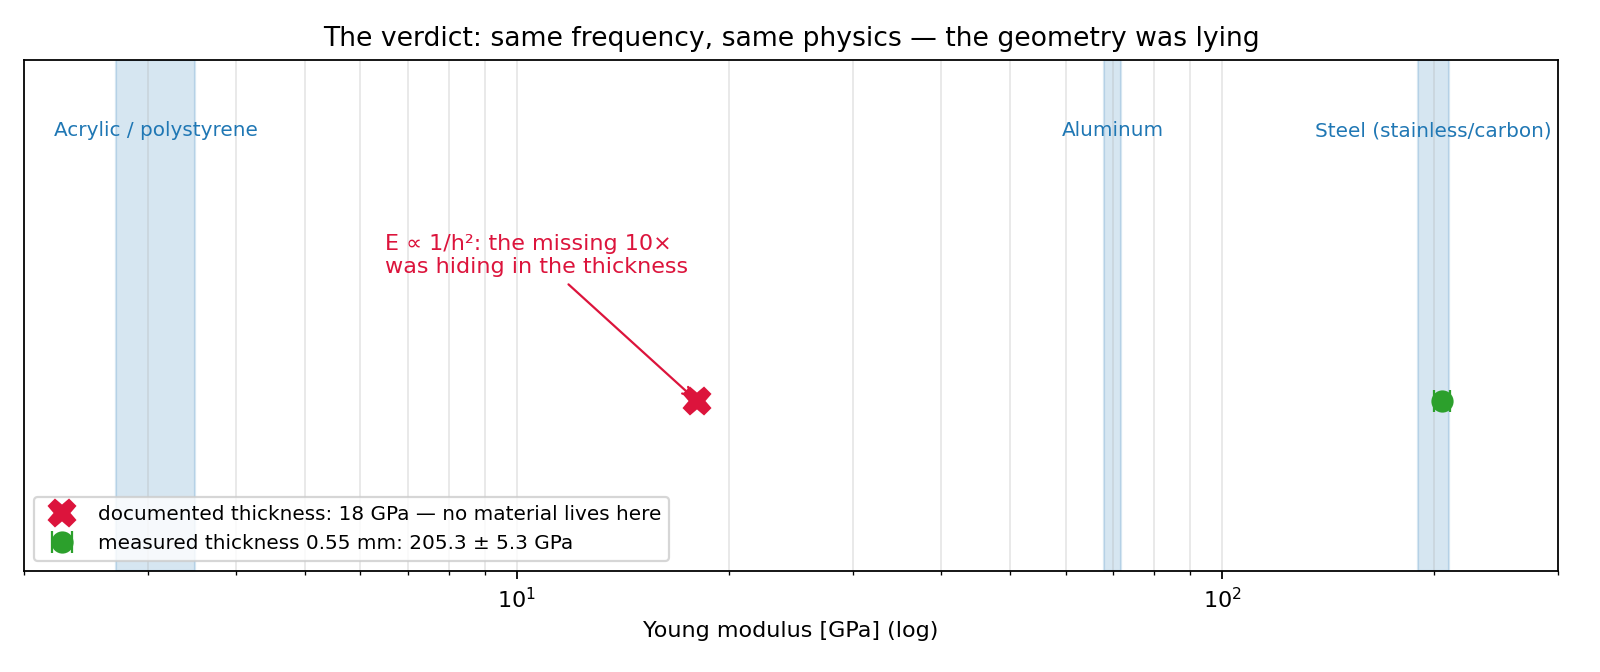
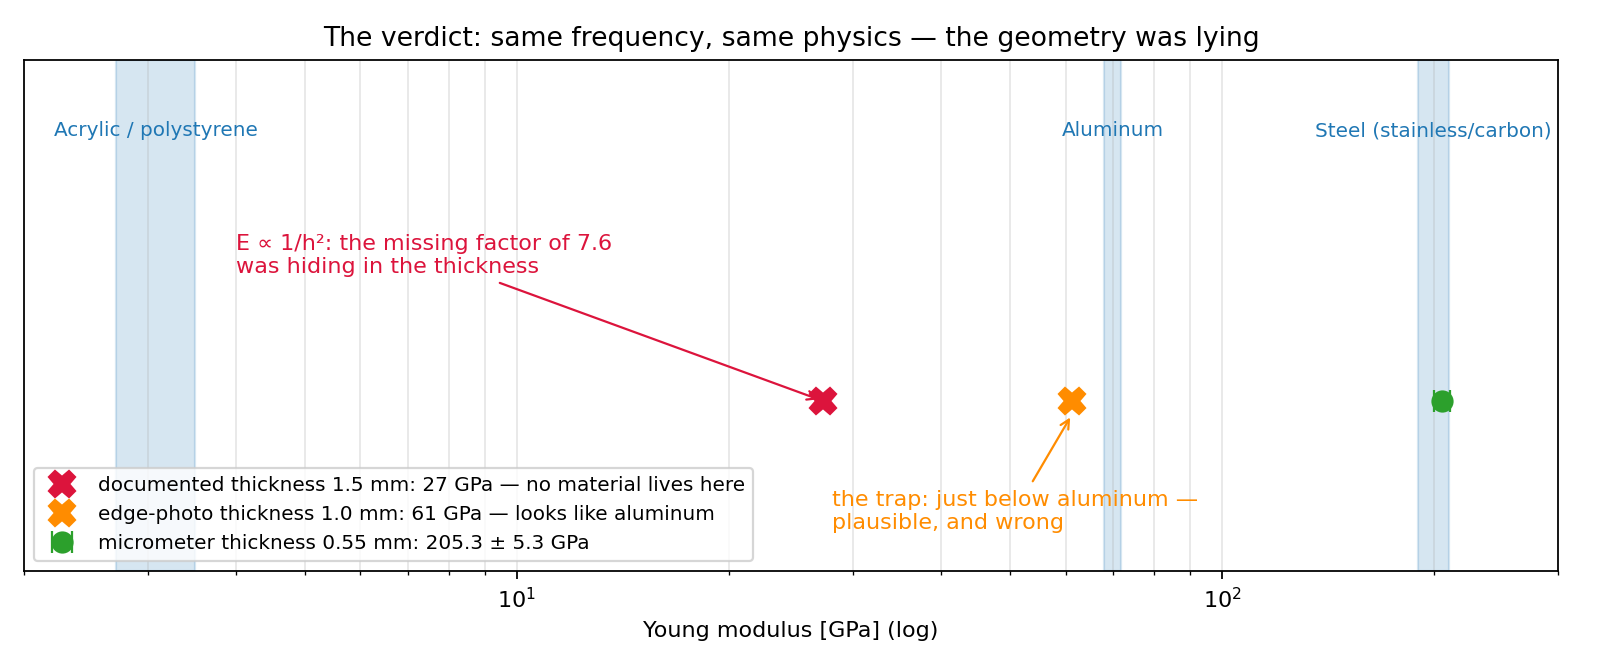
Harmonize the narrative on the reproducible 7.6x / 27 GPa ladder
The README and story figure quoted "10x too small" and "E = 18 GPa", but that
number is not reproducible with the current pipeline: it baked in an effective
length L = 0.270 m (and b = 20 mm, no tip mass). With the corrected geometry the
inverse Euler-Bernoulli model gives the ladder the paper already uses:
h = 1.5 mm -> 27 GPa, h = 1.0 mm -> 61 GPa (the dangerous, aluminum-adjacent
trap), h = 0.55 mm -> 205.3 GPa.

- README: "10x" -> "7.6x", Act 3 rewritten to show the 27/61 GPa progression,
  Act 5 retitled "The missing factor of 7.6".
- make_story_figures.py: figure 03 now recomputes the modulus ladder with
  materials.young_modulus_from_frequency instead of hardcoded 18/205.3, and
  03_verdict.png is regenerated (three points, with the 61 GPa trap annotated).
- MATERIAL_DATASETS / ORIGINAL_CODE_AUDIT / FIGURE_PROVENANCE: record the final
  micrometer geometry (0.300 m / 0.025 m / 0.55 mm -> 205.3 GPa) and keep the
  historical 17.6 GPa only as provenance of the original exploratory analysis.

Salvaged from uncommitted work in a stale worktree; applies cleanly on top of
the digital-twin merge (disjoint sections). ruff-clean, full suite 51 passed.

diff --git a/scripts/make_story_figures.py b/scripts/make_story_figures.py
@@ -5,8 +5,10 @@ Each figure is one act of the steel-ruler detective story:
 01 - the measurement: the inox free decay and its 4.982 Hz spectral line
 02 - the alibi check: measured forced-mode ratios vs the ideal cantilever
      ladder (the boundary-condition fingerprint that exonerated the clamp)
-03 - the verdict: the Young-modulus estimate before and after the micrometer,
-     against the material ranges
+03 - the verdict: the Young-modulus ladder as the assumed thickness improves
+     (documented 1.5 mm -> edge photo 1.0 mm -> micrometer 0.55 mm), against
+     the material ranges; every value is recomputed here with the pipeline's
+     own inverse model
 
 The forced-mode frequencies in figure 02 are the measured values documented in
 docs/ORIGINAL_CODE_AUDIT.md (the raw forced-vibration dataset is not part of
@@ -28,6 +30,7 @@ ROOT = Path(__file__).resolve().parents[1]
 sys.path.insert(0, str(ROOT / "src"))
 
 from vibration_id.beam_modes import CANTILEVER_BETA_L
+from vibration_id.materials import BeamGeometry, young_modulus_from_frequency
 from vibration_id.pipeline import load_clean_signal
 from vibration_id.spectral import compute_fft, dominant_frequency
 
@@ -36,10 +39,27 @@ STORY = ROOT / "figures" / "story"
 # Measured forced-resonance frequencies (docs/ORIGINAL_CODE_AUDIT.md)
 FORCED_MODES_HZ = [5.01, 31.2, 86.8, 173.5]
 
-# Young-modulus story numbers (README results + uncertainty budget:
-# E ~ rho L^4 f^2 / h^2; thickness and length dominate at ~2.6% total)
-E_WRONG_GPA = 18.0  # with the thickness documented at the time (1.5 mm)
-E_RIGHT_GPA = 205.3  # with the micrometer thickness (0.55 mm)
+# Young-modulus ladder, recomputed with the pipeline's inverse model so the
+# figure always matches what the code reproduces. Fixed inputs: f1 = 4.982 Hz,
+# L = 0.300 m, b = 25 mm, rho = 7850 kg/m^3, 0.21 g paper tip target. Only the
+# assumed thickness changes across the story.
+F1_HZ = 4.982
+DENSITY_KG_M3 = 7850.0
+TIP_MASS_KG = 2.1e-4
+
+
+def _young_modulus_gpa(thickness_mm: float) -> float:
+    geometry = BeamGeometry(length_m=0.300, thickness_m=thickness_mm * 1e-3, width_m=0.025)
+    modulus = young_modulus_from_frequency(
+        geometry, frequency_hz=F1_HZ, density_kg_m3=DENSITY_KG_M3, tip_mass_kg=TIP_MASS_KG
+    )
+    return modulus / 1e9
+
+
+E_WRONG_GPA = _young_modulus_gpa(1.5)  # documented thickness -> ~27 GPa
+E_TRAP_GPA = _young_modulus_gpa(1.0)  # edge-photo thickness -> ~61 GPa, "looks like aluminum"
+E_RIGHT_GPA = _young_modulus_gpa(0.55)  # micrometer thickness -> ~205 GPa
+# Uncertainty budget on the final value (~2.6%, thickness/length dominated)
 E_UNCERTAINTY_GPA = 5.3
 MATERIAL_BANDS = [
     ("Acrylic / polystyrene", 2.7, 3.5),
@@ -141,7 +161,7 @@ def fig_03_verdict() -> None:
         color="tab:green",
         markersize=9,
         capsize=5,
-        label=f"measured thickness 0.55 mm: {E_RIGHT_GPA:.1f} ± {E_UNCERTAINTY_GPA:.1f} GPa",
+        label=f"micrometer thickness 0.55 mm: {E_RIGHT_GPA:.1f} ± {E_UNCERTAINTY_GPA:.1f} GPa",
     )
     ax.plot(
         [E_WRONG_GPA],
@@ -149,15 +169,31 @@ def fig_03_verdict() -> None:
         "X",
         color="crimson",
         markersize=12,
-        label=f"documented thickness: {E_WRONG_GPA:.0f} GPa — no material lives here",
+        label=f"documented thickness 1.5 mm: {E_WRONG_GPA:.0f} GPa — no material lives here",
+    )
+    ax.plot(
+        [E_TRAP_GPA],
+        [1.0],
+        "X",
+        color="darkorange",
+        markersize=12,
+        label=f"edge-photo thickness 1.0 mm: {E_TRAP_GPA:.0f} GPa — looks like aluminum",
     )
     ax.annotate(
-        "E ∝ 1/h²: the missing 10×\nwas hiding in the thickness",
+        "E ∝ 1/h²: the missing factor of 7.6\nwas hiding in the thickness",
         xy=(E_WRONG_GPA, 1.0),
-        xytext=(6.5, 1.30),
+        xytext=(4.0, 1.30),
         arrowprops={"arrowstyle": "->", "color": "crimson"},
         fontsize=10,
         color="crimson",
+    )
+    ax.annotate(
+        "the trap: just below aluminum —\nplausible, and wrong",
+        xy=(E_TRAP_GPA, 0.97),
+        xytext=(28.0, 0.70),
+        arrowprops={"arrowstyle": "->", "color": "darkorange"},
+        fontsize=10,
+        color="darkorange",
     )
     ax.set_xscale("log")
     ax.set_xlim(2, 300)

diff --git a/README.md b/README.md
@@ -5,7 +5,7 @@
 ![Python](https://img.shields.io/badge/python-3.10%2B-blue.svg)
 
 **A steel ruler, a $2 optical sensor, an Arduino — and a Young modulus that
-came out 10× too small. This is the story of finding the missing factor.**
+came out 7.6× too small. This is the story of finding the missing factor.**
 
 ![Signal to physics](figures/story/cover_signal_to_physics.gif)
 
@@ -39,11 +39,13 @@ number: **4.982 Hz, stable to ±0.001 Hz across runs**.
 ## Act 3 — The verdict that couldn't be right
 
 Feed that frequency into the Euler–Bernoulli cantilever model with the
-ruler's documented geometry and out comes **E ≈ 18 GPa** — an order of
-magnitude below steel, stranded in a region of the chart where *no engineering
-material lives*. The frequency was beyond suspicion. So either the model's
-boundary condition was wrong (a soft clamp reads as a softer material), or the
-geometry was.
+ruler's documented thickness (1.5 mm) and out comes **E ≈ 27 GPa** — a factor
+of 7.6 below steel, stranded in a region of the chart where *no engineering
+material lives*. A photo of the ruler's edge suggested 1.0 mm instead, which
+moves the estimate to **E ≈ 61 GPa** — the more dangerous number, because it
+sits just below aluminum (68–72 GPa) and *looks* plausible. The frequency was
+beyond suspicion. So either the model's boundary condition was wrong (a soft
+clamp reads as a softer material), or the geometry was.
 
 ## Act 4 — Interrogating the boundary
 
@@ -59,11 +61,12 @@ the ideal line.
 The measured ratios sit on the ideal ladder to within ~1%. **The clamp walks
 free** — which leaves the geometry as the only suspect.
 
-## Act 5 — The missing 10×
+## Act 5 — The missing factor of 7.6
 
-A micrometer settled it: the blade measures **0.55 mm**, not the nominal
-1 mm-class thickness that had been assumed. Since `E ∝ 1/h²`, that alone is
-the missing order of magnitude. With the true thickness:
+A micrometer settled it: the blade measures **0.55 mm**, not the 1.5 mm on
+record or the 1.0 mm the photo suggested. Since `E ∝ 1/h²`, correcting the
+thickness multiplies the estimate by 7.6 — the whole missing factor. With the
+true thickness:
 
 ![The verdict](figures/story/03_verdict.png)
 

diff --git a/docs/MATERIAL_DATASETS.md b/docs/MATERIAL_DATASETS.md
@@ -55,22 +55,28 @@ paper_width_m = 0.025
 paper_thickness_m = 0.0003
 ```
 
-For the public material-study metadata, the inox rows use the effective model
-values recalled from the experiment:
+The public material-study metadata now records the final, micrometer-verified
+geometry for the inox rows:
 
 ```text
-length_m = 0.270
-width_m = 0.020
-thickness_m = 0.00150
+length_m = 0.300
+width_m = 0.025
+thickness_m = 0.00055   # micrometer reading; the "1 mm" marking is nominal
 density_kg_m3 = 7850
 ```
 
-With the current public inox samples, FFT extraction gives approximately
-`4.976 Hz`. Using the effective dimensions above, the inverse Euler-Bernoulli
-calculation estimates an effective Young modulus near `17.6 GPa`. This value is
-far below the nominal modulus of stainless steel, so the result should be
-discussed as an effective stiffness estimate unless the tip attachment, clamp
-compliance, free length and active vibration mode are modeled explicitly.
+With this geometry and the ensemble frequency (`4.982 Hz`), the inverse
+Euler-Bernoulli calculation gives `E = 205.3 GPa`, inside the stainless/carbon
+steel range.
+
+**Historical note (provenance of the old 17.6 GPa figure):** the original
+exploratory analysis used effective values recalled from the experiment —
+`length_m = 0.270`, `width_m = 0.020`, `thickness_m = 0.00150`, `f ≈ 4.976 Hz`,
+no tip-mass correction — which yield `E ≈ 17.6 GPa`. That number is **not**
+reproducible with the current pipeline defaults: with the corrected length
+(`0.300 m`) the same wrong thickness gives `≈ 27 GPa`, and the edge-photo
+thickness (`1.0 mm`) gives `≈ 61 GPa`. See `docs/ORIGINAL_CODE_AUDIT.md` for
+the full course correction (forced-mode clamp check + micrometer).
 
 The public metadata table is:
 

diff --git a/docs/FIGURE_PROVENANCE.md b/docs/FIGURE_PROVENANCE.md
@@ -64,7 +64,7 @@ files remain the historical reference.
 | --- | --- |
 | `01_measurement.png`, `cover_signal_to_physics.gif` | generated from `data/sample/sample_inox_raw_calibrated.csv` by `scripts/make_story_figures.py` / `scripts/make_cover_gif.py` |
 | `02_modal_ladder.png` | ideal ladder from `beam_modes.py`; measured forced-mode frequencies as documented in `ORIGINAL_CODE_AUDIT.md` (raw forced dataset is not public) |
-| `03_verdict.png` | README results + the uncertainty budget (E ∝ ρL⁴f²/h²; ±2.6% total, thickness-dominated) |
+| `03_verdict.png` | Young-modulus ladder recomputed at plot time by `materials.young_modulus_from_frequency` (f₁ = 4.982 Hz, L = 0.300 m, b = 25 mm, ρ = 7850 kg/m³, 0.21 g tip mass; h = 1.5 / 1.0 / 0.55 mm → 27 / 61 / 205.3 GPa) + the uncertainty budget (±2.6% total, thickness-dominated). The 17.6–18 GPa quoted by the original exploratory analysis additionally baked in an effective length L = 0.270 m and is **not** reproduced by the pipeline (see `ORIGINAL_CODE_AUDIT.md`) |
 
 ## `figures/setup/` — photos
 

diff --git a/docs/ORIGINAL_CODE_AUDIT.md b/docs/ORIGINAL_CODE_AUDIT.md
@@ -142,8 +142,12 @@ classification.
 
 **Corrected geometry (ruler photo):** `L=0.300 m`, `h=1.00 mm`, `b=25 mm`. The
 previously documented thickness (`1.5 mm`) was wrong; since `E ∝ 1/h²`, that
-alone inflated the discrepancy. With `h=1 mm`, E rises from `17.6 GPa` to
-`61.4 GPa`.
+alone inflated the discrepancy. Note the original scripts' `17.6 GPa` also
+baked in an effective length `L=0.270 m` (and `b=20 mm`, no tip mass); with the
+corrected `L=0.300 m` the pipeline's inverse model gives `27 GPa` for
+`h=1.5 mm` and `61.4 GPa` for `h=1 mm` — the reproducible ladder quoted by the
+README and the story figures. The historical `17.6 GPa` is kept here only as a
+record of the original analysis.
 
 **Resolution (clamp isolated by a forced experiment):** the same ruler was driven
 at its first 4 modes (`~5.0 / 31.2 / 86.8 / 173.5 Hz`, `Dataset_sensor/forcado`).
